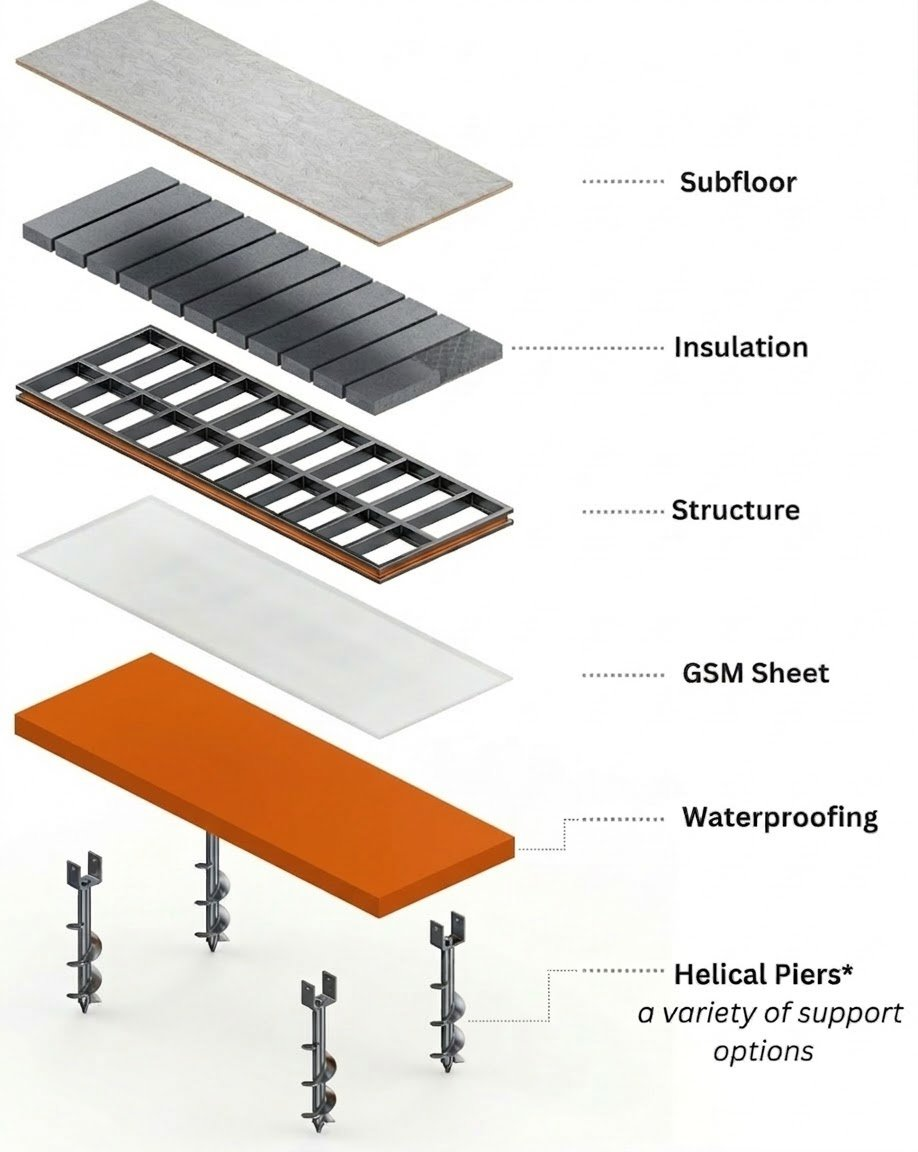
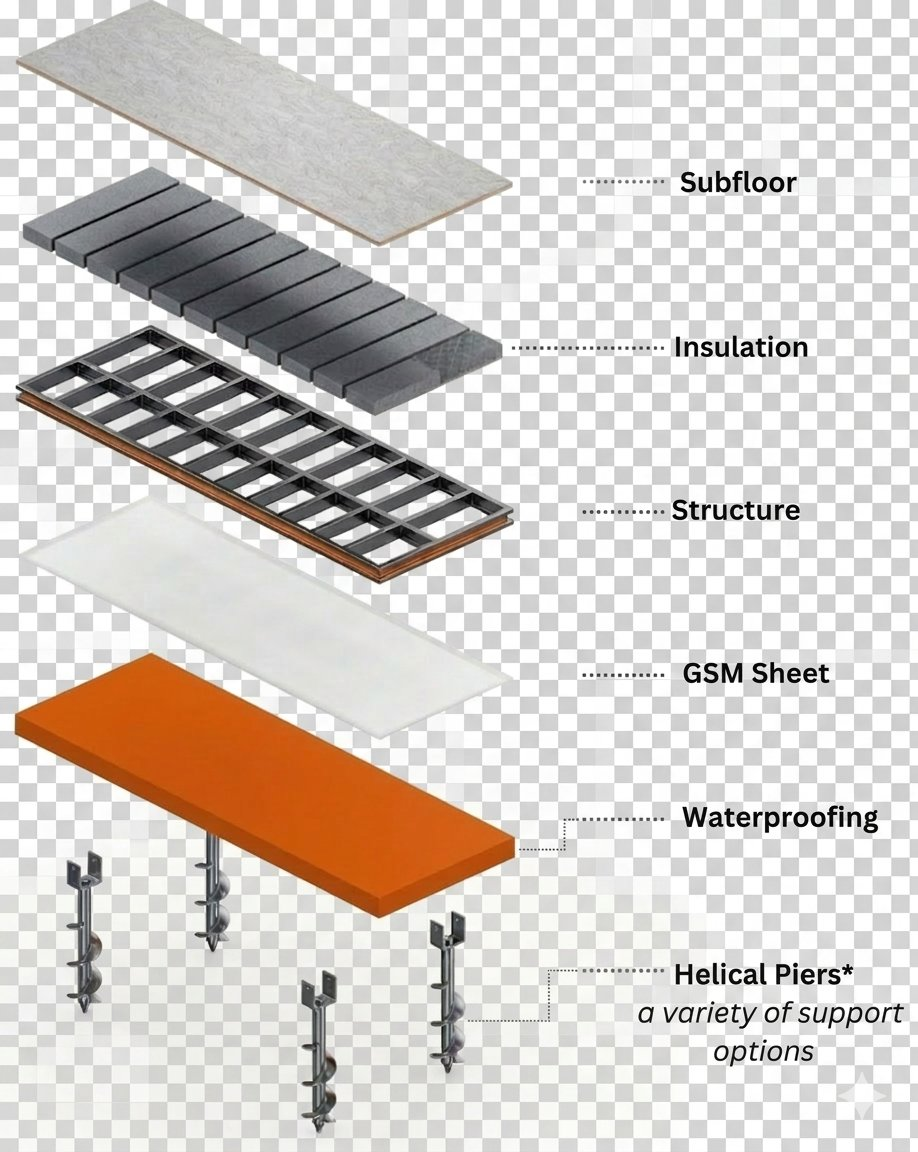
Add files via upload

diff --git a/index.html b/index.html
@@ -1280,7 +1280,7 @@
       <div class="stat-label">lb/sqft — outperforms 3,000 psi concrete</div>
     </div>
     <div class="stat-item">
-      <div class="stat-num">Zero</div>
+      <div class="stat-num">0</div>
       <div class="stat-label">Concrete. Lighter, cleaner, greener.</div>
     </div>
   </div>
@@ -1300,7 +1300,7 @@
     </div>
 
     <div class="layers-diagram">
-      <img src="plank-exploded.png" alt="Plank foundation system — exploded layer view" style="width: 55%; max-height: 380px; object-fit: contain; display: block; border-radius: 2px; margin: 0 auto;">
+      <img src="plank-exploded.png" alt="Plank foundation system — exploded layer view" style="width: 100%; max-height: 500px; object-fit: contain; display: block;">
     </div>
   </div>
 
@@ -1345,39 +1345,20 @@
     <div class="problem-stats">
       <div class="prob-stat">
         <div class="prob-stat-num">77%</div>
-        <div class="prob-stat-text">of all construction projects are delayed</div>
+        <div class="prob-stat-text">of construction projects are delayed — and the foundation is a leading cause</div>
       </div>
       <div class="prob-stat">
-        <div class="prob-stat-num">10%+</div>
-        <div class="prob-stat-text">of total project cost is the foundation alone</div>
+        <div class="prob-stat-num">30%</div>
+        <div class="prob-stat-text">of total project cost can be consumed by the foundation alone</div>
       </div>
       <div class="prob-stat">
         <div class="prob-stat-num">28</div>
-        <div class="prob-stat-text">days before concrete reaches full strength</div>
+        <div class="prob-stat-text">days of cure time before concrete reaches full strength — blocking everything above</div>
       </div>
       <div class="prob-stat">
-        <div class="prob-stat-num">23%</div>
-        <div class="prob-stat-text">of solid waste comes from construction</div>
+        <div class="prob-stat-num">30%+</div>
+        <div class="prob-stat-text">of materials on a typical pour are wasted — concrete is construction's dirtiest step</div>
       </div>
-    </div>
-  </div>
-
-  <div class="problem-pain-points">
-    <div class="pain-point">
-      <div class="pain-title">Cost</div>
-      <div class="pain-desc">SOG costs can exceed 30% of total construction budget</div>
-    </div>
-    <div class="pain-point">
-      <div class="pain-title">Delays</div>
-      <div class="pain-desc">90%+ of projects delivered late — foundations are a primary driver</div>
-    </div>
-    <div class="pain-point">
-      <div class="pain-title">Waste</div>
-      <div class="pain-desc">30%+ of materials are wasted on a typical concrete pour</div>
-    </div>
-    <div class="pain-point">
-      <div class="pain-title">Labor</div>
-      <div class="pain-desc">Slab systems are labor-intensive with inefficient jobsite sequencing</div>
     </div>
   </div>
 </section>